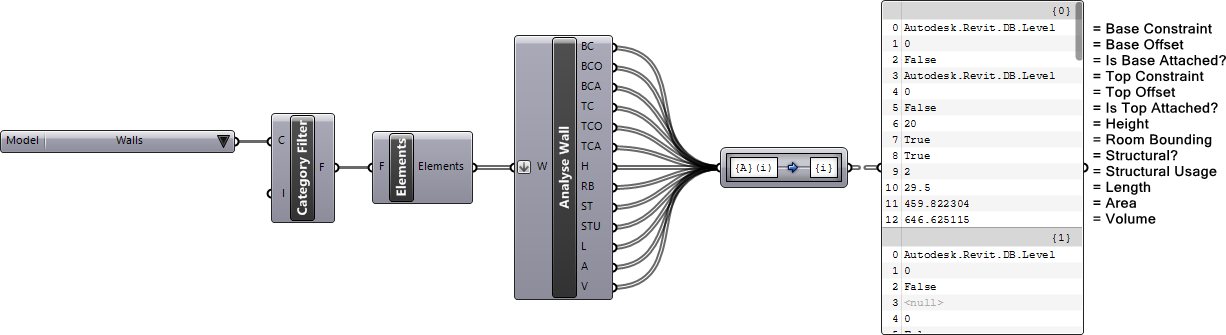
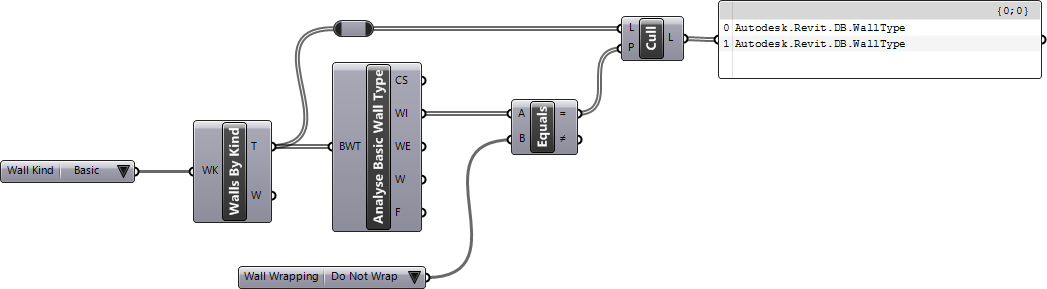
updated walls guide

Changed region(s): [[0.0, 0.0, 1.0, 1.0], [0.703, 0.3114, 0.7641, 0.3737]]

diff --git a/docs/pages/_en/beta/guides/revit-walls.md b/docs/pages/_en/beta/guides/revit-walls.md
@@ -48,23 +48,97 @@ You can also collect walls of a specific type very easily using a workflow descr
 
 ![]({{ "/static/images/guides/revit-walls04.png" | prepend: site.baseurl }})
 
+
 ## Analyzing Wall Types
 
 ### Reading Type Parameters
+
+Once you have filtered out the desired wall type using workflows described above, you can query its parameters and apply new values. See [Document Model: Parameters]({{ site.baseurl }}{% link _en/beta/guides/revit-params.md %}) to learn how to edit parameters of an element type.
+
+### Analyzing Basic Walls
+
+Basic Walls are a special *Wall Kind (System Family)* in Revit. They are constructed from a set of layers that are defined as part of the wall type definition. The also have a series of other unique options e.g. *Wrapping at Inserts*. The *Analyse Basic Wall Type* component shared here provide a method to analyze the Basic Wall types in Revit document:
+
+![]({{ "/static/images/guides/revit-walls05.png" | prepend: site.baseurl }})
+
+Some of the outputs on this component (e.g. **WI** and **WE**) return an integer value that corresponds to an enumeration in the Revit API. You can use the *Value List* components (shown above in front of the parameter values panel) to determine which value is set on the parameter and filter the source wall types. The examples below show how these *Value List* components are used to filter the wall types by *Wrapping* and *Function*:
+
+![]({{ "/static/images/guides/revit-walls06.png" | prepend: site.baseurl }})
+
+![]({{ "/static/images/guides/revit-walls07.png" | prepend: site.baseurl }})
+
+&nbsp;
+
+{% include ltr/download_comp.html archive='/static/ghnodes/Analyse Basic Wall Type.ghuser' name='Analyse Basic Wall Type'%}
+
+{% include ltr/download_comp.html archive='/static/ghnodes/Wall Wrapping.ghuser' name='Wall Wrapping'%}
+
+{% include ltr/download_comp.html archive='/static/ghnodes/Wall Function.ghuser' name='Wall Function'%}
 
 ### Basic Wall Structure
 
 <!-- https://github.com/mcneel/rhino.inside-revit/issues/42 -->
 
+{% capture api_note %}
+In Revit API, {% include api_type.html type='Autodesk.Revit.DB.CompoundStructure' title='DB.CompoundStructure' %} type represents the structure definition of categories that allow such configuration e.g. Basic Walls, Floors, Roofs, Compound Ceilings, etc. The `DB.CompoundStructure` can provide access to individual layers represented by {% include api_type.html type='Autodesk.Revit.DB.CompoundStructureLayer' title='DB.CompoundStructureLayer' %} 
+{% endcapture %}
+{% include ltr/api_note.html note=api_note %}
+
+The *Analyse Basic Wall Type* component shared above, provides access to the *Compound Structure* definition of the Basic Wall type. Use the *Compound Structure (Destruct)* component shared here to extract information and *Compound Structure Layers*. Similar to above, a series of Value List components are provided to allow value comparison and filtering of the structure layers:
+
+![]({{ "/static/images/guides/revit-walls08.png" | prepend: site.baseurl }})
+
+As shown above, layers are ordered from **Exterior** to **Interior**, matching the Revit GUI layer ordering. The example below shows a workflow to access individual layers by their index:
+
+![]({{ "/static/images/guides/revit-walls09.png" | prepend: site.baseurl }})
+
+&nbsp;
+
+{% include ltr/download_comp.html archive='/static/ghnodes/Compound Structure (Destruct).ghuser' name='Compound Structure (Destruct)' %}
+
+{% include ltr/download_comp.html archive='/static/ghnodes/End Cap Condition.ghuser' name='End Cap Condition' %}
+
+{% include ltr/download_comp.html archive='/static/ghnodes/Opening Wrapping Condition.ghuser' name='Opening Wrapping Condition' %}
+
+### Basic Wall Structure Layers
+
+Use the Compound Structure Layer (Destruct) component to extract information about each individual *Compound Structure Layer*. Custom *Value List* components are also provide for value comparison:
+
+![]({{ "/static/images/guides/revit-walls10.png" | prepend: site.baseurl }})
+
+&nbsp;
+
+{% include ltr/download_comp.html archive='/static/ghnodes/Compound Structure Layer (Destruct).ghuser' name='Compound Structure Layer (Destruct)' %}
+
+{% include ltr/download_comp.html archive='/static/ghnodes/Layer Function.ghuser' name='Layer Function' %}
+
+{% include ltr/download_comp.html archive='/static/ghnodes/Deck Embedding Type.ghuser' name='Deck Embedding Type' %}
+
 ### Stacked Wall Structure
 
-{% include ltr/warning_note.html note='Currently there is no support in Revit API to access Stacked Wall structure data' %}
+{% include ltr/warning_note.html note='Currently there is no support in Revit API to access Stacked Wall structure data. However you can use the Stack Wall instance analysis components to extract the partial height Basic Wall instances and analyze their structure layers individually' %}
 
 ## Analyzing Walls
 
 ### Reading Instance Parameters
 
+Once you have filtered out the desired wall instance using workflows described above, you can query its parameters and apply new values. See [Document Model: Parameters]({{ site.baseurl }}{% link _en/beta/guides/revit-params.md %}) to learn how to edit parameters of an element.
+
 ### Common Wall Properties
+
+Use the *Analyse Wall* component shared here, to grab the common properties between all Wall Kinds. Custom *Value List* components are also provided for value comparison:
+
+![]({{ "/static/images/guides/revit-walls11.png" | prepend: site.baseurl }})
+
+The example below uses the shared *Wall Structural Usage* value list component to filter for **Shear** walls:
+
+![]({{ "/static/images/guides/revit-walls12.png" | prepend: site.baseurl }})
+
+&nbsp;
+
+{% include ltr/download_comp.html archive='/static/ghnodes/Analyse Wall.ghuser' name='Analyse Wall' %}
+
+{% include ltr/download_comp.html archive='/static/ghnodes/Wall Structural Usage.ghuser' name='Wall Structural Usage' %}
 
 ### Wall Location Curve
 
@@ -83,6 +157,7 @@ explain challenges of getting geometry from standard approach
 
 ### Wall Geometry By Structure
 
+
 ## Modifying Wall Types
 
 ### Modifying Type Parameters
@@ -98,6 +173,7 @@ explain challenges of getting geometry from standard approach
 ### Modifying Base Curve
 
 ### Modifying Profile
+
 
 ## Creating Wall Types
 
